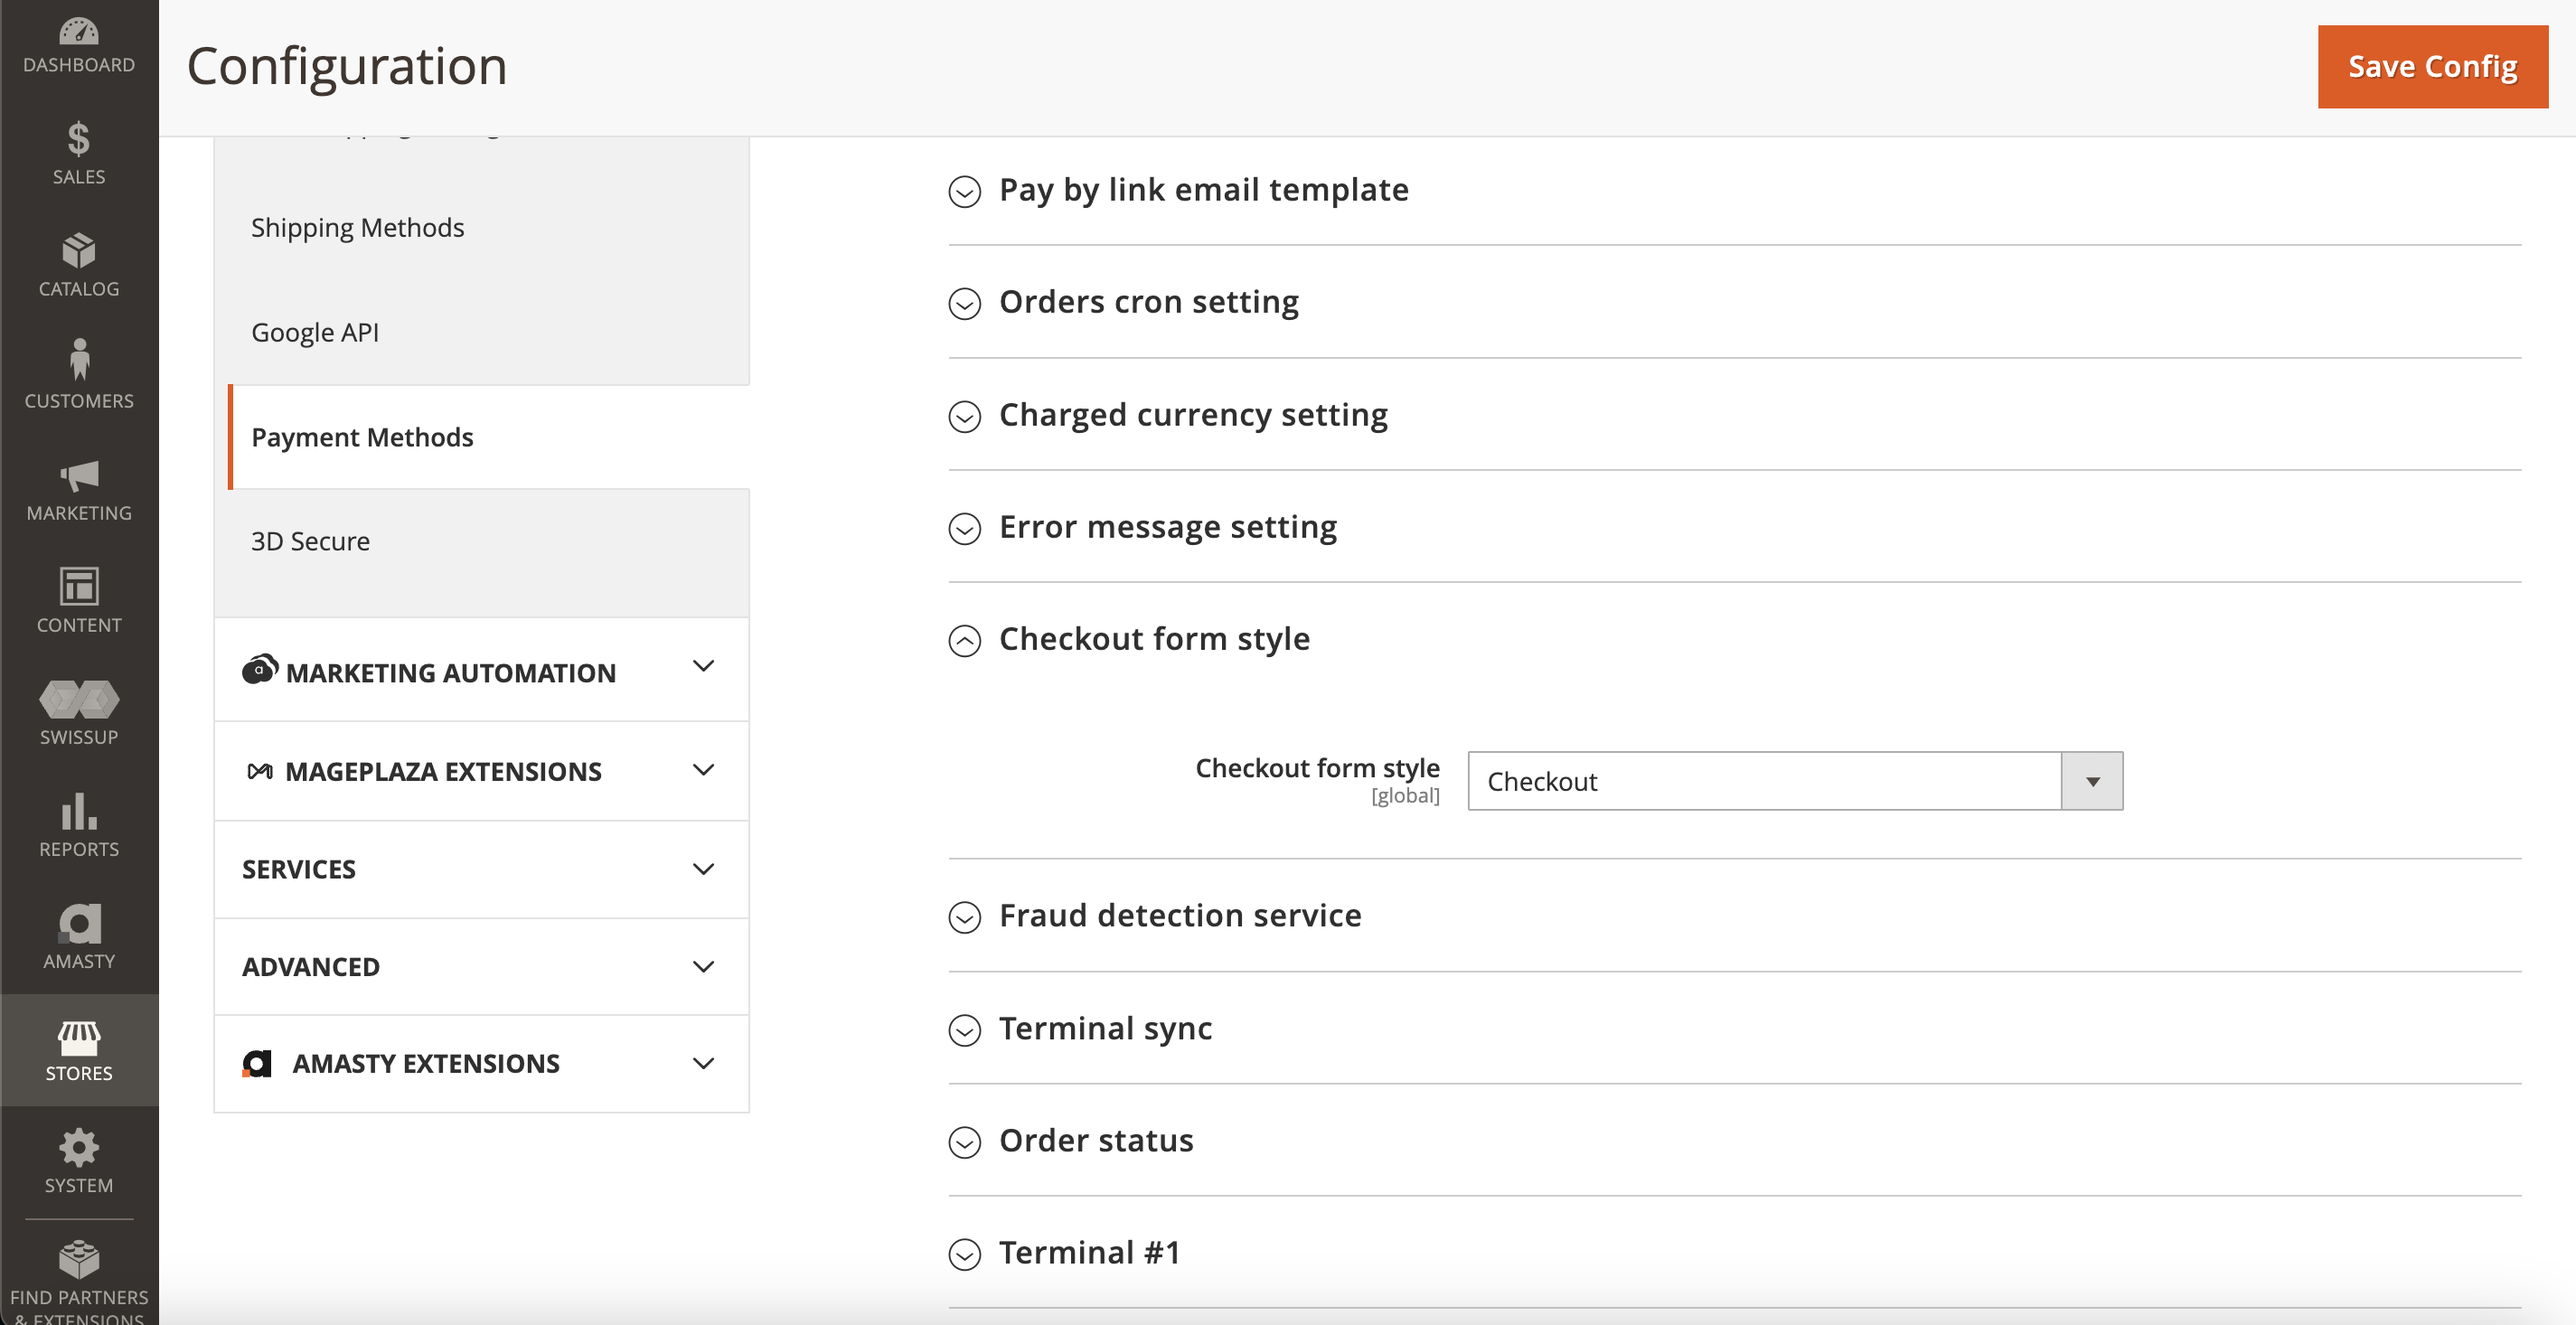
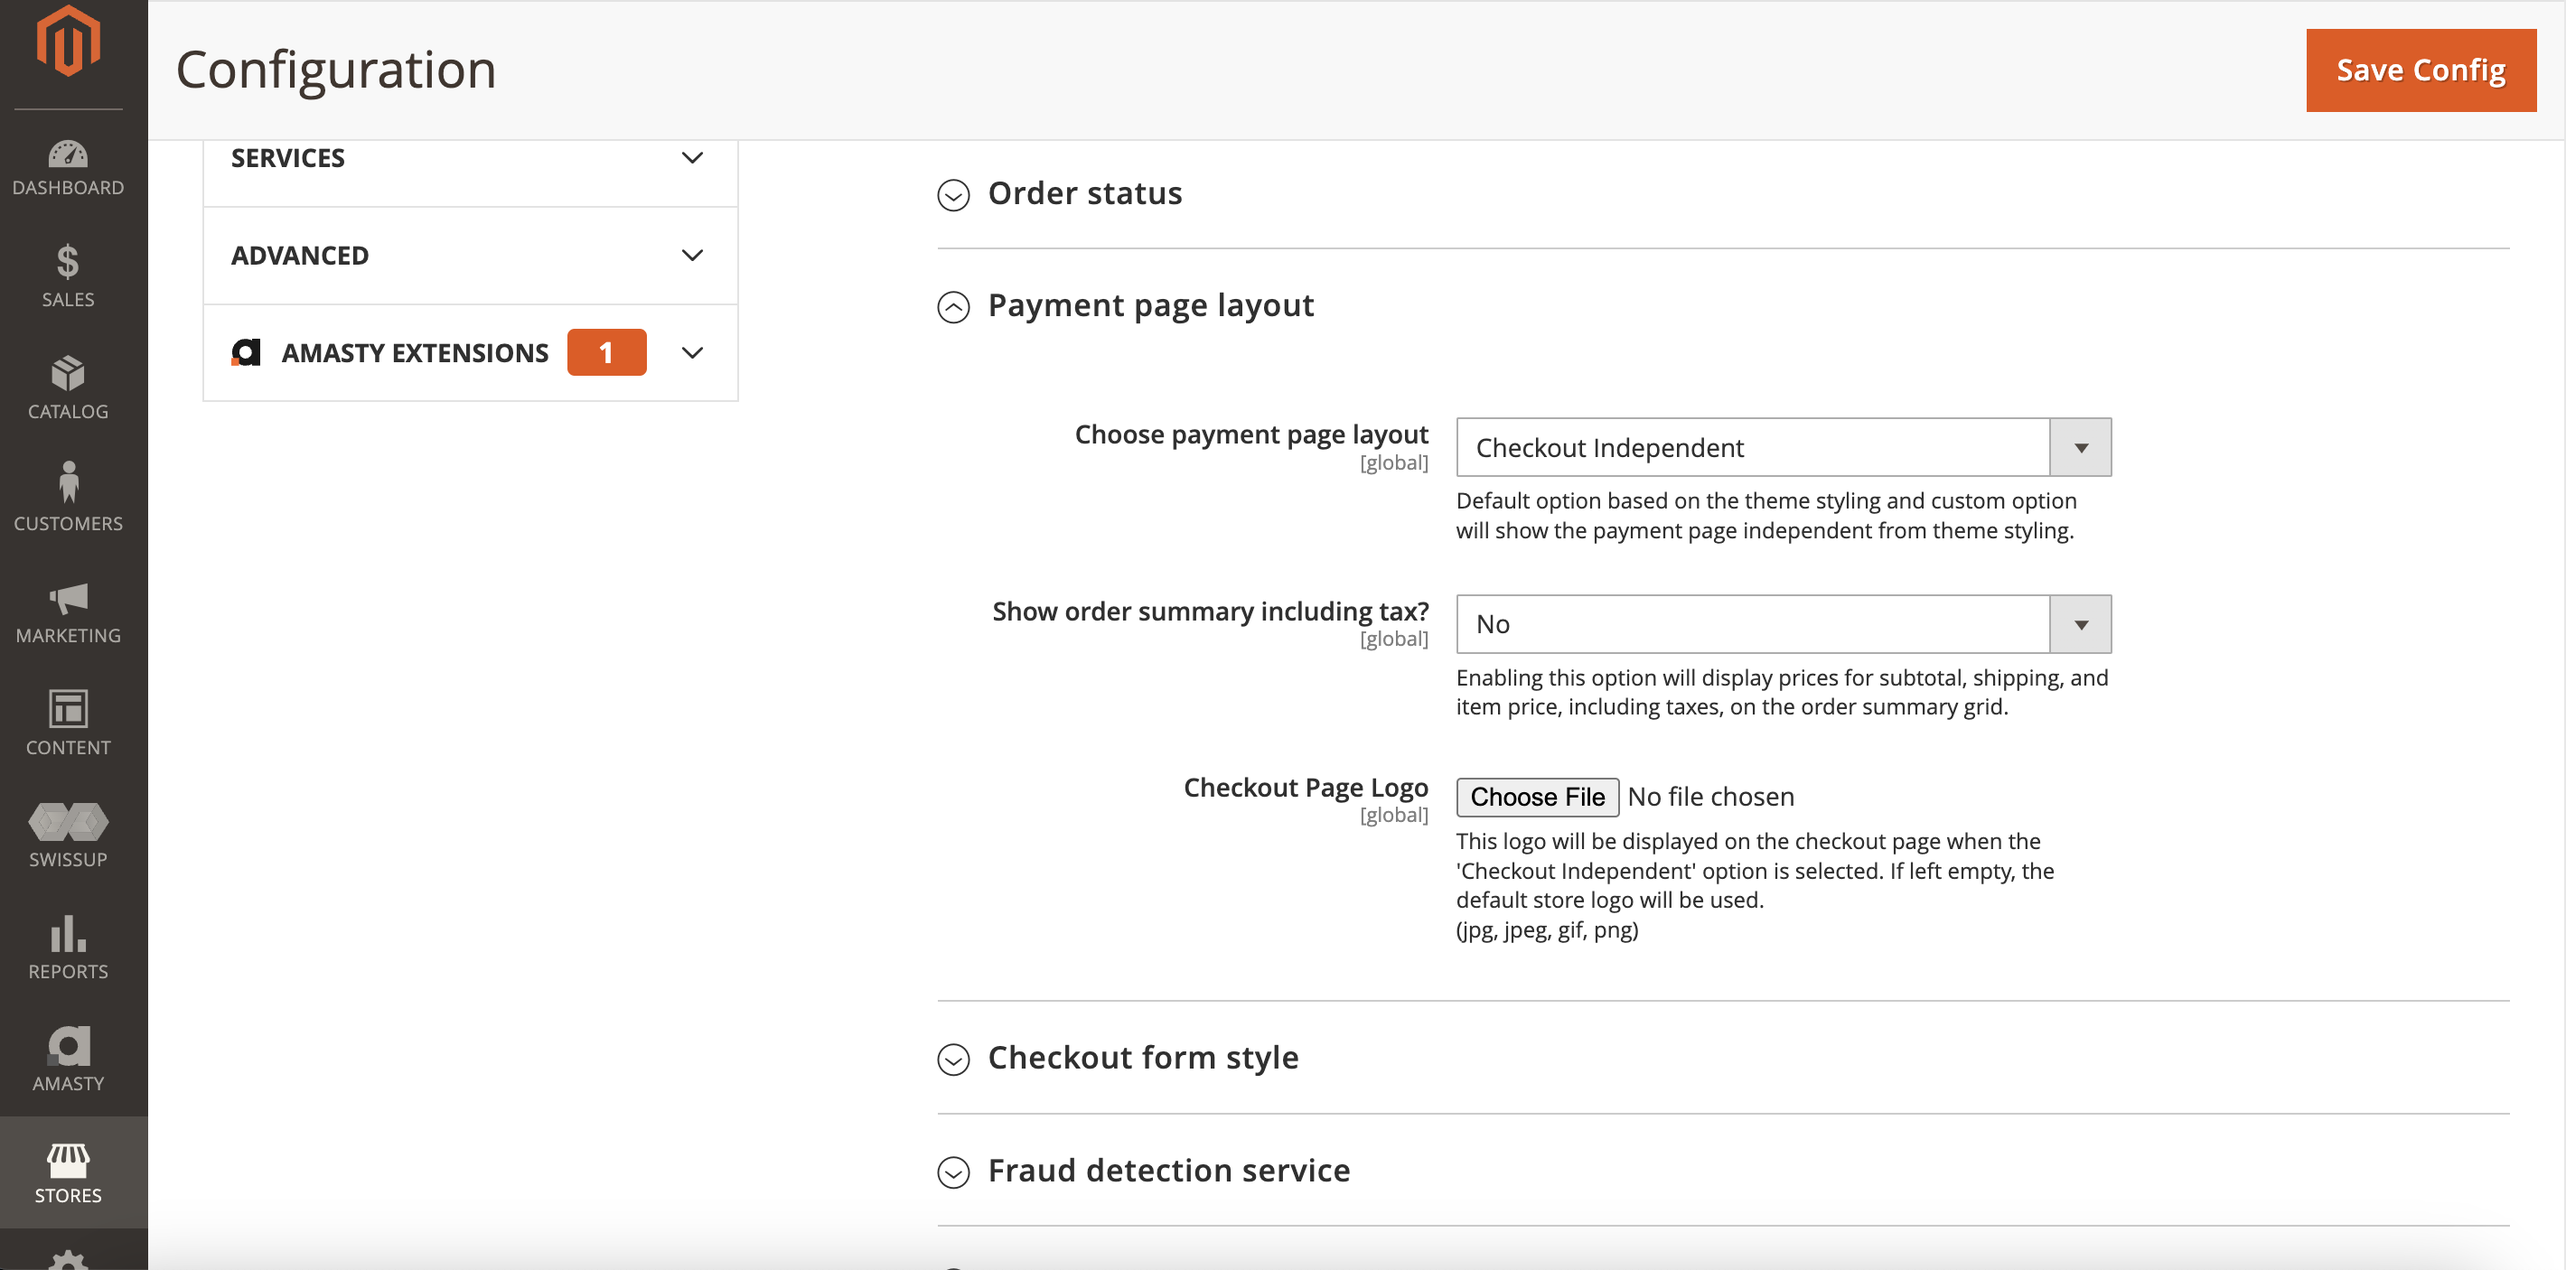
Update payment page layout and auto cancel screenshots

diff --git a/wiki.md b/wiki.md
@@ -26,6 +26,10 @@ We highly recommend gathering all the below information, before starting the ins
 
 [Payment page layout](#payment-page-layout)
 
+* [Order summary settings](#order-summary-settings)
+
+* [Checkout Page Logo](#checkout-page-logo)
+
 [Checkout form styling](#checkout-form-styling)
 
 [Configure fraud detection](#configure-fraud-detection)
@@ -38,7 +42,7 @@ We highly recommend gathering all the below information, before starting the ins
 
 * [Pay by link email template](#pay-by-link-email-template)
 
-[Auto-cancelling orders cron settings](#auto-cancelling-orders-cron-settings)
+[Auto-cancelling orders with pending payment](#auto-cancelling-orders-with-pending-payment)
 
 [Reorder from the admin](#reorder-from-the-admin)
 
@@ -141,19 +145,6 @@ payment methods and configuring payments.
 > Once the API details are validated the terminals will be appeared in
 > the terminal's dropdown in each terminal.
 
-## Auto-cancelling orders cron settings
-
-1. Navigate to: Admin > Stores > Configuration > Sales (Tab) > Payment Methods
-2. Scroll to AltaPay section
-3. Open "Auto-cancelling orders cron settings" section and choose "Yes" to enable the configuration
-4. Select the frequency for a scheduler
-5. Set a start time when the scheduler should run
-6. Cancellation timeframe runs from from the moment the order is generated.
-
-    **Note** Specify the time duration in hours; for instance, 2 days equals 48 hours with a default field setting of 24 hours.
-
-    ![configure-cron-scheduler](docs/cron_schedule.png)
-
 ## Charged currency setting
 
 You can select currency used for AltaPay payment processing from charged currency setting section.
@@ -171,6 +162,34 @@ Methods
 
 ![order_status_configuration](docs/order_status_configuration.png)
 
+## Payment page layout
+
+### Choose payment page layout
+
+Choose one of the below options from `Payment page layout` dropdown to select the layout type for payment page.
+
+![Payment page layout configuration](docs/checkout_form_style.jpg)
+
+- `Default` This will use the styling from the checkout/theme.
+
+    ![checkout_style](docs/checkout_style.jpg)
+
+- `Checkout Independent` This will show the payment page independent from the theme styling. This will provide a visually appealing appearance seamlessly, without conflicting with the theme styling.
+
+    ![custom_payment_page_layout](docs/custom_payment_page_layout.png)
+
+### Order summary settings
+
+Enabling this option will display prices for subtotal, shipping, and item price, including taxes, on the order summary grid.
+
+### Checkout Page Logo
+
+This logo will be displayed on the checkout page when the **Checkout Independent** option is selected. If left empty, the default store logo will be used.
+(jpg, jpeg, gif, png)
+
+![checkout_independent_logo](docs/checkout_independent_logo.png)
+
+
 ## Checkout form styling
 
 Choose one of the below options from `Checkout form style` dropdown to change the styling of Credit Card form on the checkout page.
@@ -186,19 +205,6 @@ Choose one of the below options from `Checkout form style` dropdown to change th
     ![Checkout Style](docs/checkout_style.jpg)
 
 - `Custom` This option can be selected to implement custom styling on the payment page. Selecting this option will remove all the styling from the payment page.
-
-## Payment page layout
-Choose one of the below options from `Payment page layout` dropdown to select the layout type for payment page.
-
-![Payment page layout configuration](docs/payment_page_styling.png)
-
-- `Default` This will use the styling from the checkout/theme.
-
-    ![checkout_style](docs/checkout_style.jpg)
-
-- `Checkout Independent` This will show the payment page independent from the theme styling. This will provide a visually appealing appearance seamlessly, without conflicting with the theme styling.
-
-    ![custom_payment_page_layout](docs/custom_payment_page_layout.png)
 
 ## Configure fraud detection
 
@@ -290,6 +296,18 @@ By performing the below steps a customer receives a payment link on the provided
 You can create a custom email template by following the link below and change the template from the dropdown: https://developer.adobe.com/commerce/frontend-core/guide/templates/email/
 
  ![change_email_template](docs/change_email_template.png)
+
+## Auto-cancelling orders with pending payment
+
+1. Navigate to: **Admin** > **Stores** > **Configuration** > **Sales (Tab)** > **Payment Methods**
+2. Scroll to **AltaPay** section
+3. Open **Auto-cancelling orders with pending payment** section and choose **Yes** to enable the configuration.
+4. Choose **Exclude admin orders** option if you want to exclude order created from the admin panel.
+5. Cancellation timeframe runs from the moment the order is generated.
+
+    **Note** Specify the time duration in hours; for instance, 2 days equals 48 hours with a default field setting of 24 hours.
+
+    ![auto-cancel-order-with-pending-payment](docs/auto_cancel_order_with_pending_payment.png)
 
 ## Reorder from the admin
 To place an order through the admin, please follow the steps below:
